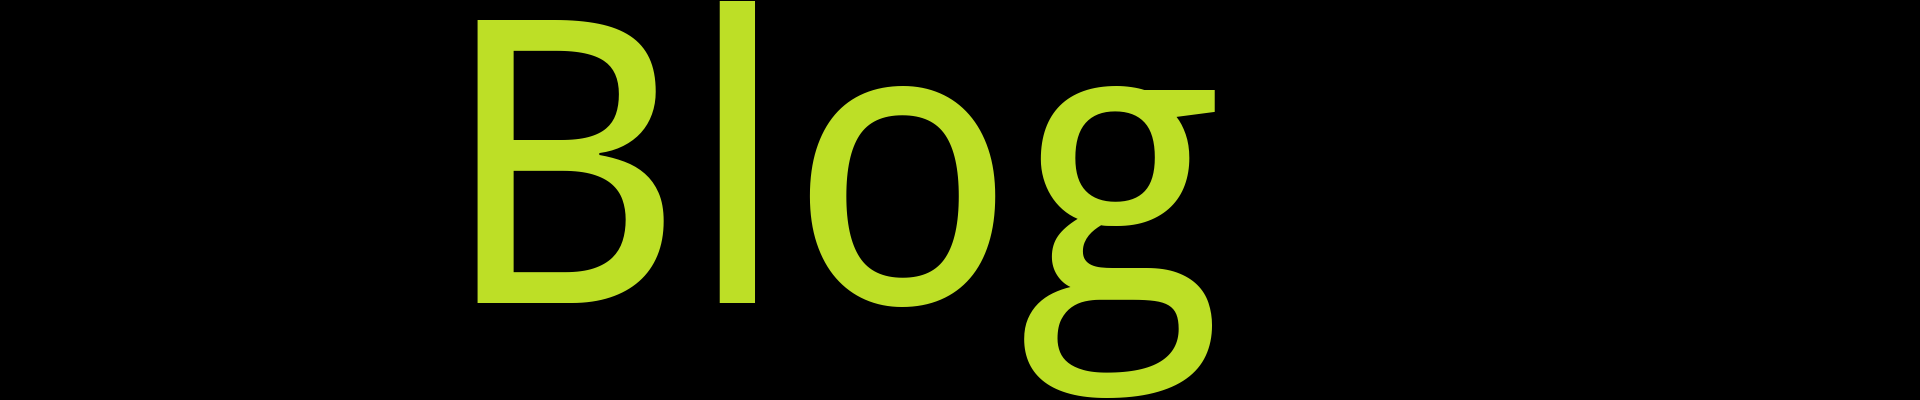
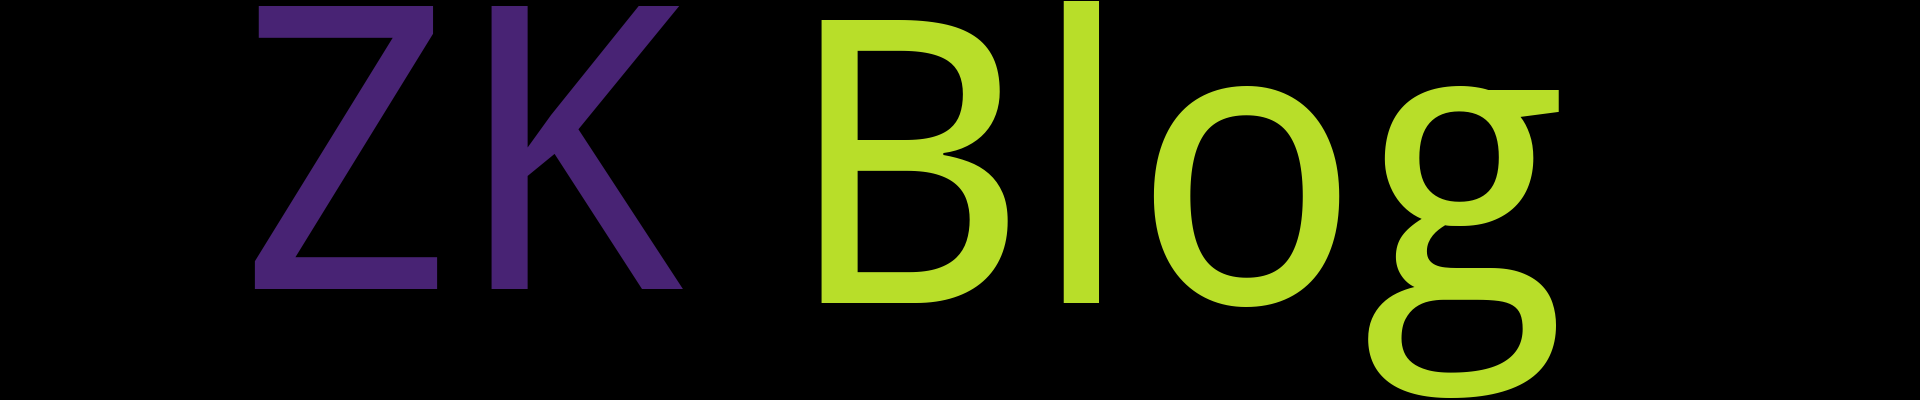
Update from Github Action

Changed region(s): [[0.125, 0.0, 0.8125, 1.0]]

diff --git a/README.md b/README.md
@@ -1,7 +1,7 @@
 
 <p align='center'>
     <img src="https://badgen.net/github/issues/SpaceStation09//my-notes"/>
-    <img src="https://badgen.net/badge/last-commit/2024-10-28 06:22:25"/>
+    <img src="https://badgen.net/badge/last-commit/2024-10-28 06:22:53"/>
     <img src="https://badgen.net/github/stars/SpaceStation09//my-notes"/>
     <img src="https://badgen.net/github/watchers/SpaceStation09//my-notes"/>
 </p>
@@ -14,6 +14,14 @@
 <summary>Blog	[1篇]</summary>
 
 - 2024-09-20 [使用Github Issues 与 Git Action 写博客 - Hello, World!](https://github.com/SpaceStation09/my-notes/issues/1) 
+
+
+</details>
+            
+<details open>
+<summary>ZK	[1篇]</summary>
+
+- 2024-10-28 [零知识证明：R1CS 与 QAP](https://github.com/SpaceStation09/my-notes/issues/3) 
 
 
 </details>
